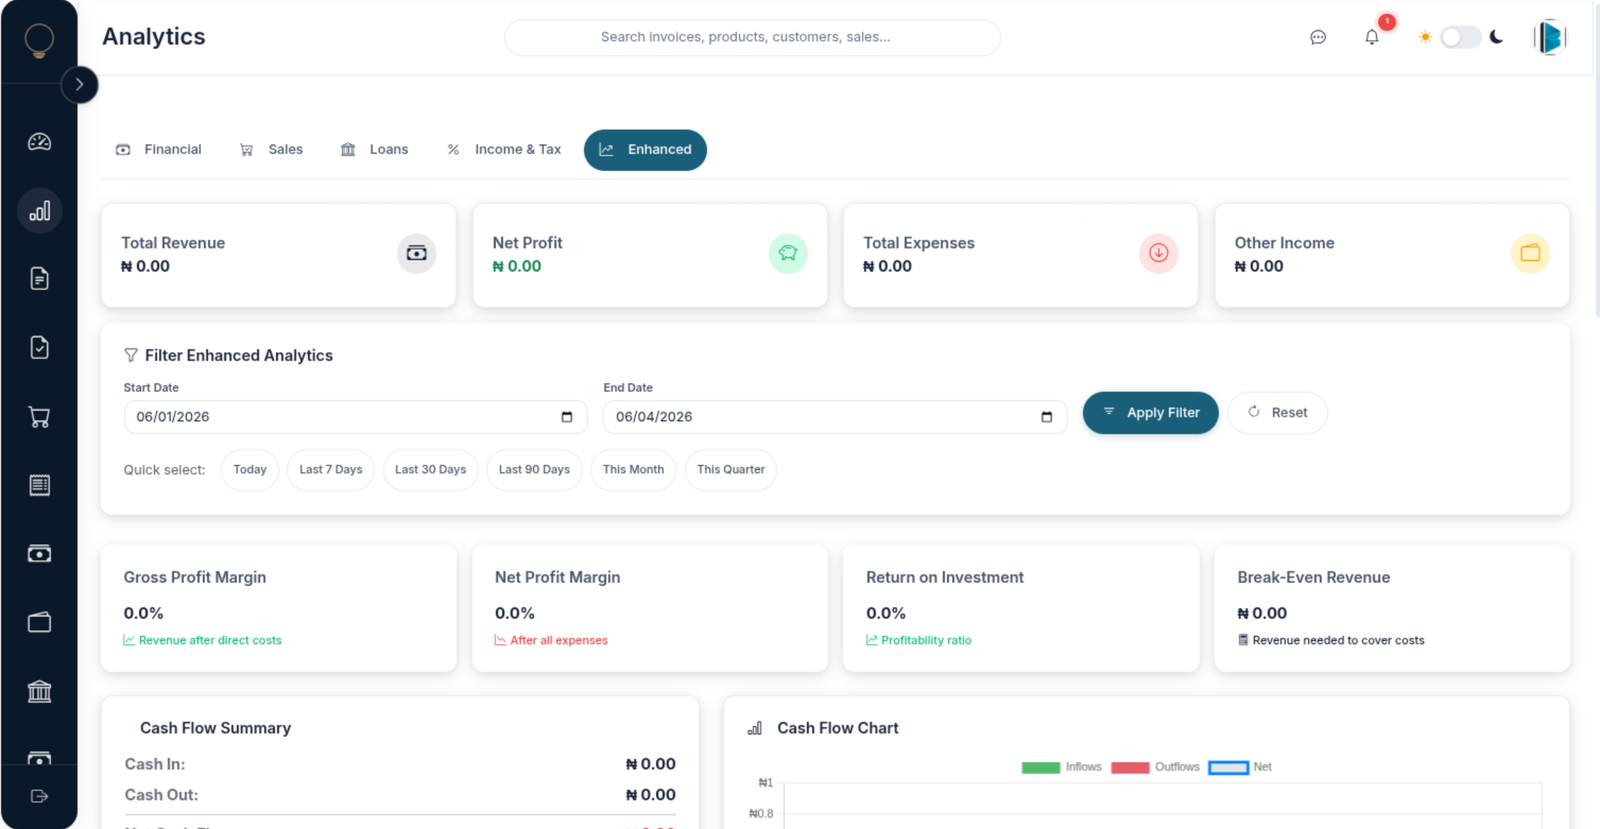
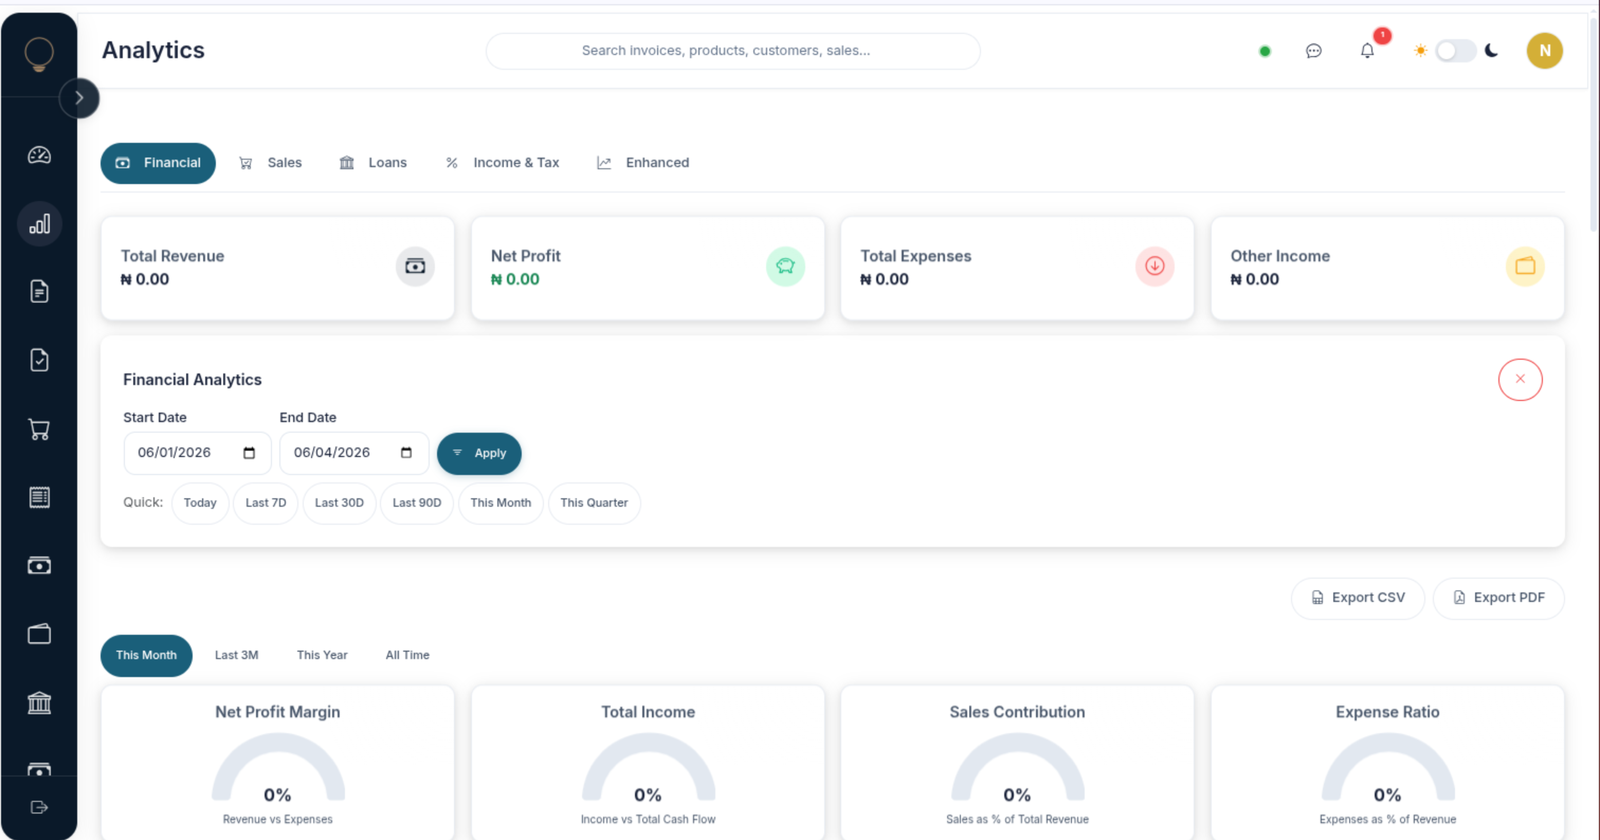
feat: use 4 latest TijhaBooks screenshots (dashboard, analytics, tax, invoice showcase)

diff --git a/src/pages/TijhaBooksPage.jsx b/src/pages/TijhaBooksPage.jsx
@@ -169,6 +169,34 @@ function TijhaBooksPage() {
         </div>
       </section>
 
+      {/* Invoicing showcase */}
+      <section className="section-padding bg-[#F5F5F7]">
+        <div className="container-main">
+          <div className="grid grid-cols-1 lg:grid-cols-2 gap-12 lg:gap-16 items-center">
+            <div>
+              <span className="inline-block text-xs font-bold uppercase tracking-[0.2em] text-bronze mb-4">Invoicing</span>
+              <h2 className="text-xl sm:text-2xl md:text-3xl font-bold text-indigo mb-6">
+                Create Professional Invoices In Minutes
+              </h2>
+              <p className="text-brand-body leading-relaxed mb-4">
+                Add your customer, set a due date and currency, and let TijhaBooks handle the rest, including VAT (7.5%) and withholding tax. Save it as a draft or send it the moment it is ready.
+              </p>
+              <p className="text-brand-body leading-relaxed">
+                Every invoice is tracked end to end, so you always know what has been paid and what is still outstanding.
+              </p>
+            </div>
+            <div>
+              <img
+                src="/images/tijhabooks-invoice.png"
+                alt="TijhaBooks new invoice form with bill-to, details and tax settings"
+                className="w-full h-auto rounded-xl shadow-lg border border-gray-200"
+                loading="lazy"
+              />
+            </div>
+          </div>
+        </div>
+      </section>
+
       {/* How it works */}
       <section className="section-padding relative overflow-hidden bg-gradient-to-br from-[#F0EDF7] via-[#F8F7FC] to-[#F0EDF5]">
         <div className="absolute top-20 left-10 w-72 h-72 bg-indigo/8 rounded-full blur-3xl" />
@@ -212,8 +240,8 @@ function TijhaBooksPage() {
             </div>
             <div>
               <img
-                src="/images/tijhabooks-signin.png"
-                alt="TijhaBooks sign-in screen — Financials Made Easy"
+                src="/images/tijhabooks-tax.png"
+                alt="TijhaBooks tax management with VAT history and company tax"
                 className="w-full h-auto rounded-xl shadow-lg border border-gray-200"
                 loading="lazy"
               />
